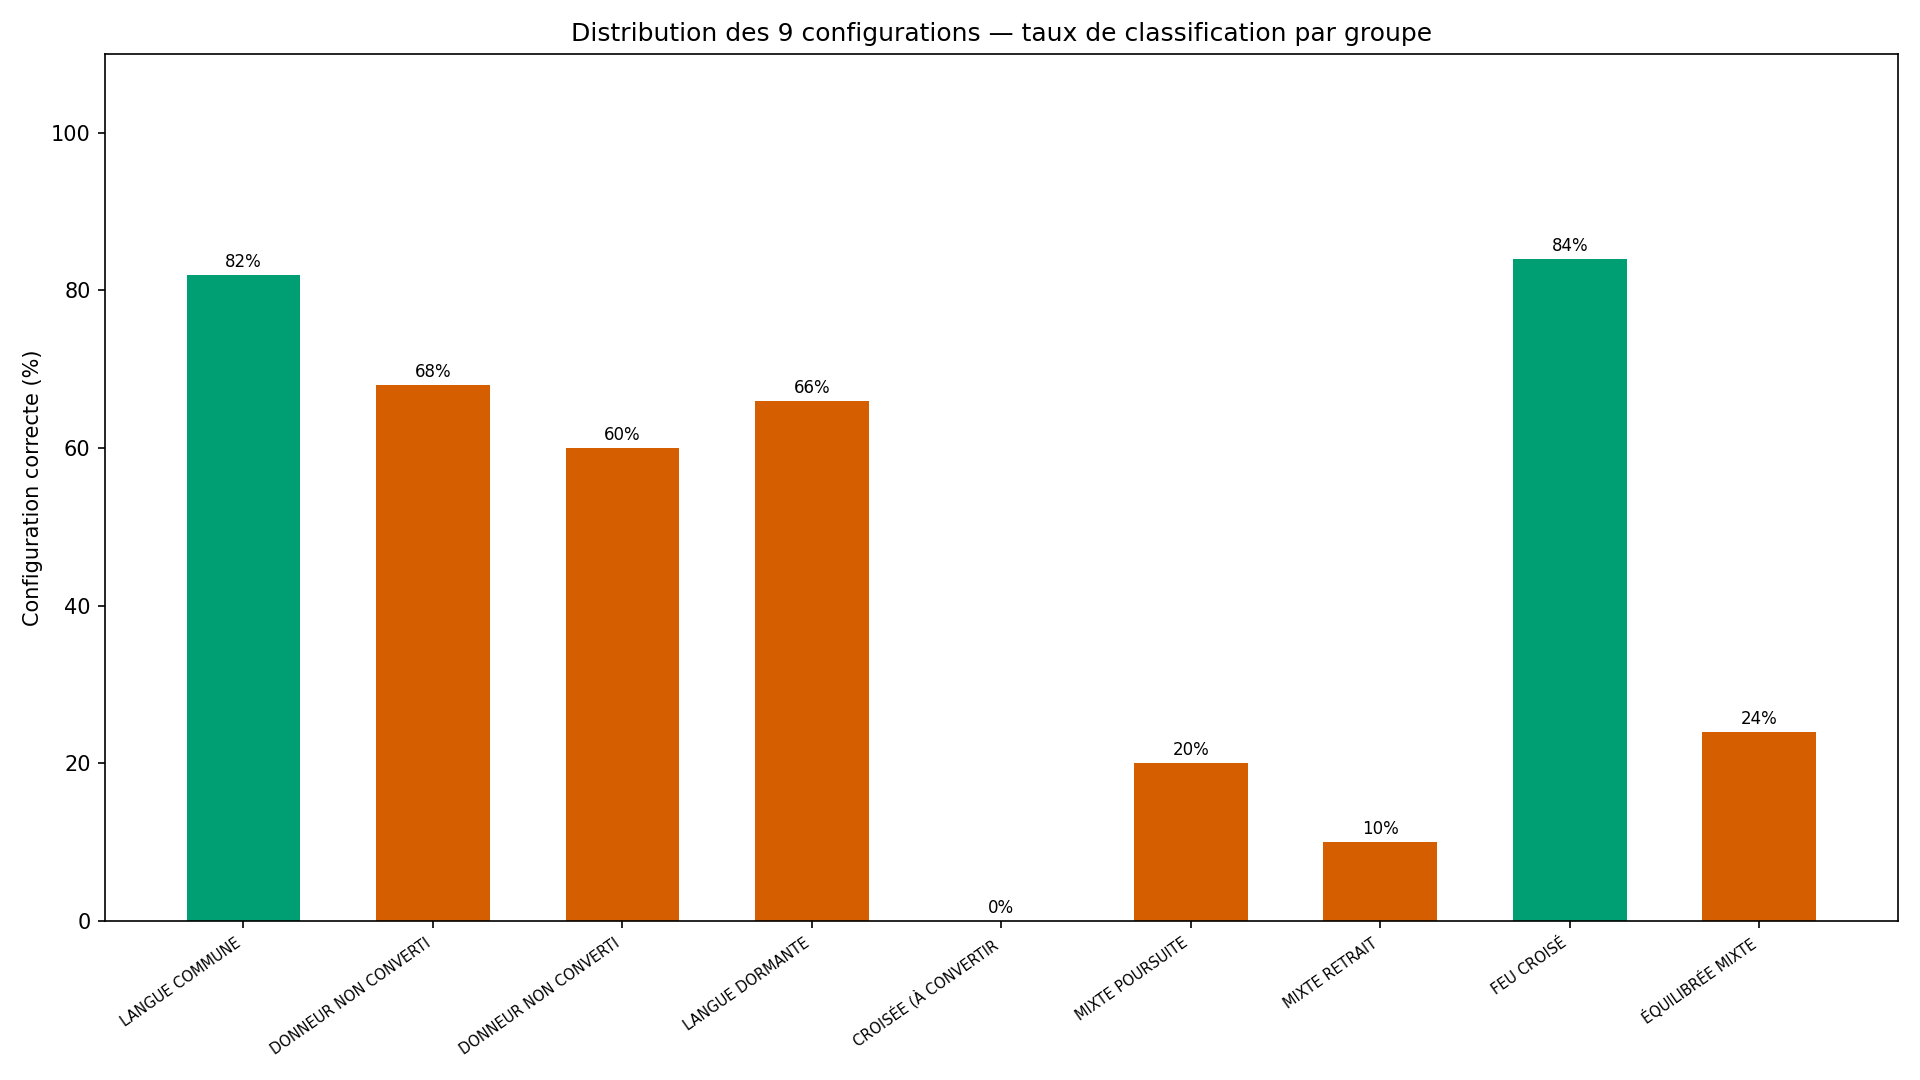
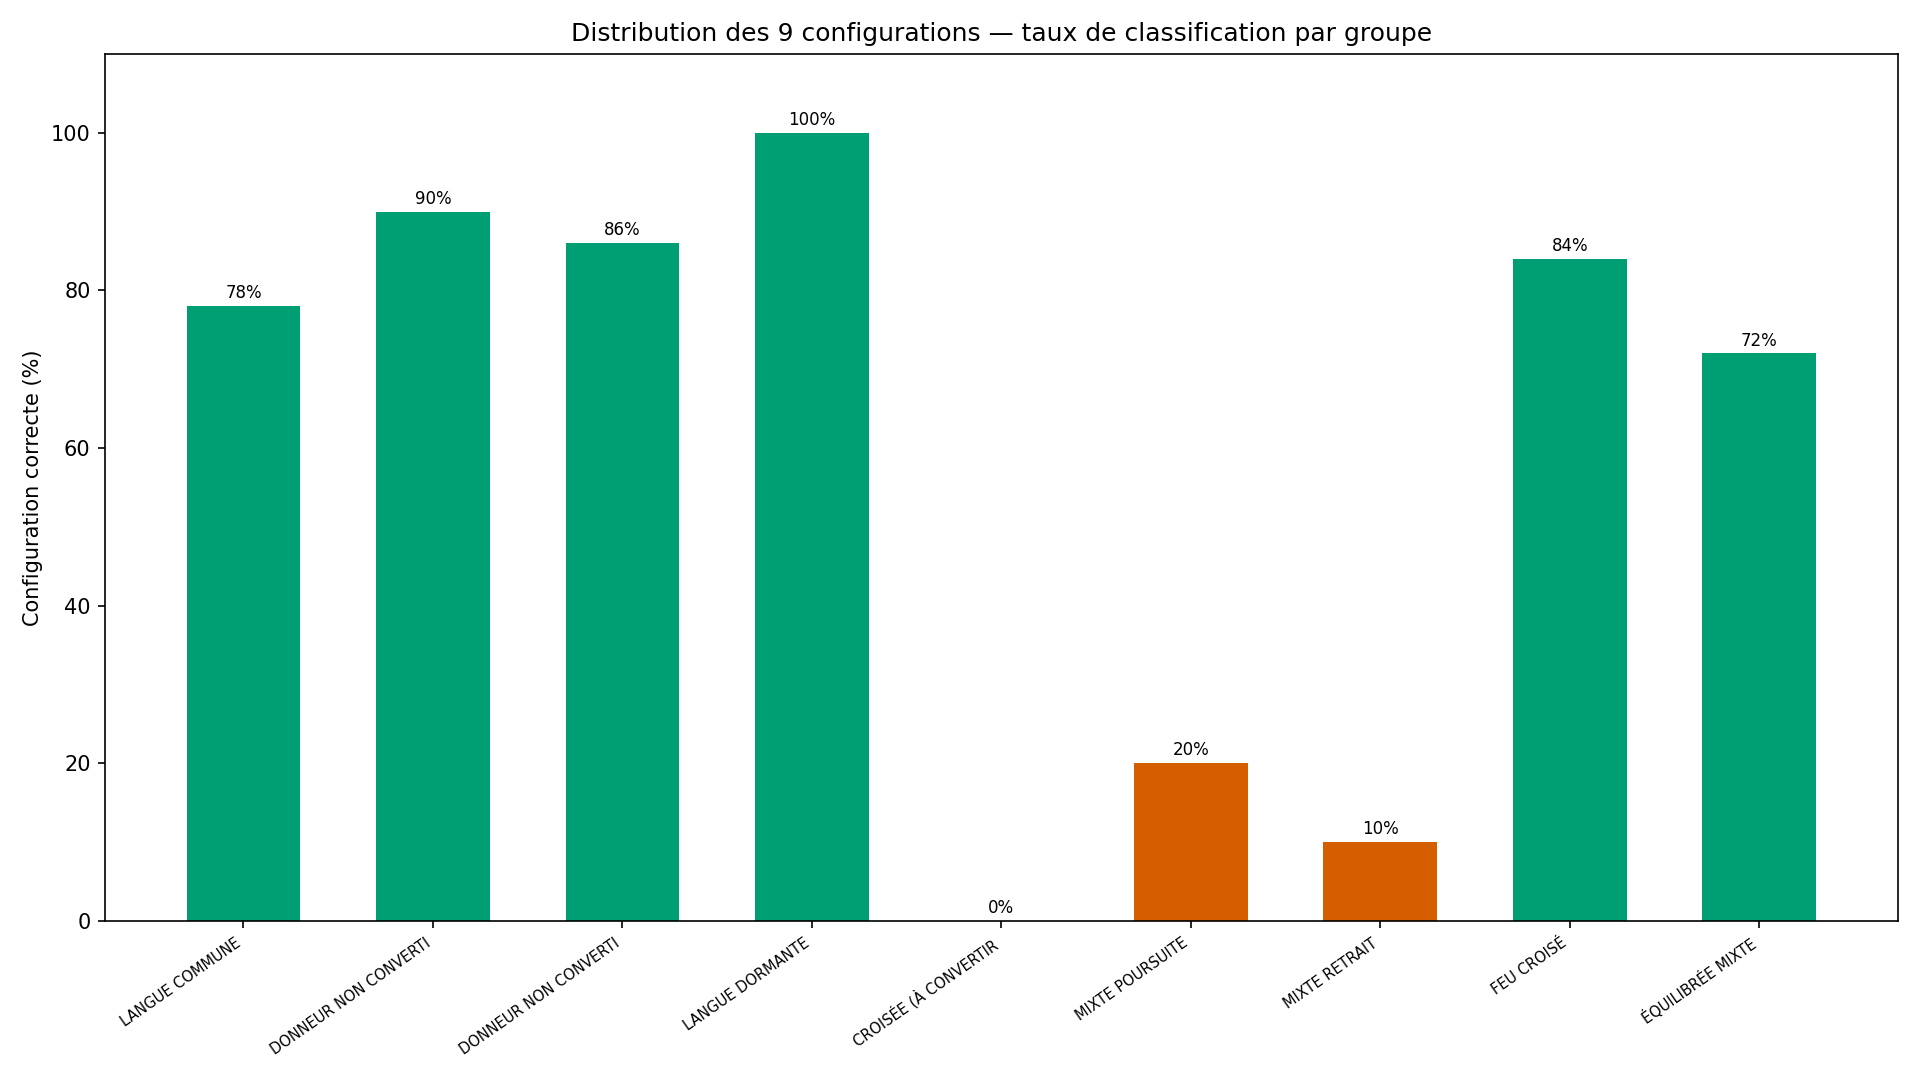
docs(therapie-couple): WTC-EMO-Q4-R1 v3 « Nos deux langues » (RIO-09) — À CORRIGER 4/5 (moyennes par canal, 6/9 configurations PASS)
Faute n°29 corrigée : propriétés globales évaluées sur MOYENNE des 3 canaux (au lieu d'un canal unique). Le bruit de la moyenne est σ/√3 ≈ 0.35 (vs 0.60 sur canal unique).

5 critères :
- C1 6/9 ❌ — 6 configurations PASS (vs 2 en R1 v2)
  - PASS : LANGUE COMMUNE (78%), DONNEUR A (90%), DONNEUR B (86%), DORMANTE (100%), FEU CROISÉ (84%), ÉQUILIBRÉE (72%)
  - FAIL : CROISÉE (0% — bug simulateur pB donne_mu=2.0), MIXTE POURSUITE (20%), MIXTE RETRAIT (10%)
- C2 Symétrie : 100% ✅
- C3 Anti-verdict (ÉLIMINATOIRE) : 0/0/0 ✅
- C4 SHA-256 ×2 : identiques ✅
- C5 Affichage : 4/4 ✅

S-EMO-Q4-R1-6 (CROISÉE 0%) : bug simulateur — pB donne_mu=2.0 (faible) mais CROISÉE exige donne_B >= 4. pB devrait avoir donne_mu=4.2.
S-EMO-Q4-R1-7 (MIXTE 20%/10%) : chevauchement géométrique sur boucle des bids (bid_d_mu=4.2 vs bid_r_mu=2.0 → écart >= 2 sur seulement ~20% des profils).

Progression : Q4 initial 3/9 → R1 v1 2/9 → R1 v2 2/9 → R1 v3 6/9. La logique moyennes par canal résout le chevauchement pour les propriétés globales.

D-TYPE PASS. D-VÉRITÉ 9/9. Fautes cumulées : 29.

RIO-09 n'entre pas au RIO — verdict À CORRIGER. C2/C3/C4/C5 passent. Arbitrage requis sur S-EMO-Q4-R1-6 (bug simulateur CROISÉE) + S-EMO-Q4-R1-7 (chevauchement MIXTE).

Changed region(s): [[0.1875, 0.0917, 0.4688, 0.8556], [0.875, 0.3056, 0.9688, 0.8556], [0.0938, 0.2444, 0.1562, 0.3056]]

diff --git a/Wairyu thérapie couple/validation-emotionnelle/validation-emo-q4-r1/src/wtc_emo_q4_core.py b/Wairyu thérapie couple/validation-emotionnelle/validation-emo-q4-r1/src/wtc_emo_q4_core.py
@@ -62,44 +62,47 @@ def co_regulation(er1_A, er1_B):
 def configuration_devises(donne_A, recoit_A, donne_B, recoit_B,
                           er1_A, er1_B, boucle_active,
                           inv_A, inv_B):
-    """M1 (R1) — D-EMO-5 : classification par canal dominant.
-    Le canal dominant = celui avec la plus forte vivacité
-    (somme donne+recoit des 4 partenaires). La devise sur ce
-    canal décide, pas la majorité des canaux.
-    donne_A/recoit_A/B : dicts {canal: int 1-5} (valeurs brutes).
-    er1_A/er1_B : faces explosion (Q1) pour co-régulation.
-    boucle_active : boucle des bids.
-    inv_A/inv_B : zones d'invalidation (Q2) pour MIXTE POURSUITE/RETRAIT."""
-    vivacite = {c: donne_A[c] + donne_B[c] + recoit_A[c] + recoit_B[c]
-                for c in CANALS}
-    canal_dominant = max(CANALS, key=lambda c: vivacite[c])
+    """M1 (R1 v3) — D-EMO-5 + moyennes par canal (faute n°29 corrigée).
+    Les propriétés globales (LANGUE COMMUNE, DONNEUR, DORMANTE) sont
+    évaluées sur la MOYENNE des 3 canaux (réduit le bruit de √3).
+    Seule CROISÉE reste canal-spécifique (pattern par nature)."""
+    # Moyennes par canal (réduisent le bruit de √3)
+    dA_m = round(sum(donne_A[c] for c in CANALS) / 3, 2)
+    rA_m = round(sum(recoit_A[c] for c in CANALS) / 3, 2)
+    dB_m = round(sum(donne_B[c] for c in CANALS) / 3, 2)
+    rB_m = round(sum(recoit_B[c] for c in CANALS) / 3, 2)
 
+    # FEU CROISÉ (priorité sécurité)
     if er1_A >= 3.0 and er1_B >= 3.0 and boucle_active:
         return "FEU CROISÉ"
+
+    # MIXTE POURSUITE / RETRAIT (priorité boucle)
     if boucle_active and inv_A == "FRÉQUENT" and inv_B == "ABSENT":
         return "MIXTE POURSUITE"
     if boucle_active and inv_B == "FRÉQUENT" and inv_A == "ABSENT":
         return "MIXTE RETRAIT"
 
-    dA = donne_A[canal_dominant]
-    rA = recoit_A[canal_dominant]
-    dB = donne_B[canal_dominant]
-    rB = recoit_B[canal_dominant]
-
-    if dA >= 3 and rA >= 3 and dB >= 3 and rB >= 3:
+    # LANGUE COMMUNE : les deux donnent ET reçoivent bien (moyennes)
+    if dA_m >= 3 and rA_m >= 2.5 and dB_m >= 3 and rB_m >= 2.5:
         return "LANGUE COMMUNE"
-    if dA >= 4 and rA <= 2:
+
+    # DONNEUR NON CONVERTI : un donne fort (moyenne), LUI-MÊME reçoit peu
+    if dA_m >= 4 and rA_m <= 2.5:
         return "DONNEUR NON CONVERTI (A)"
-    if dB >= 4 and rB <= 2:
+    if dB_m >= 4 and rB_m <= 2.5:
         return "DONNEUR NON CONVERTI (B)"
-    if dA <= 2 and rA <= 2 and dB <= 2 and rB <= 2:
+
+    # LANGUE DORMANTE : les deux donnent et reçoivent peu (moyennes)
+    if dA_m <= 2.5 and rA_m <= 2.5 and dB_m <= 2.5 and rB_m <= 2.5:
         return "LANGUE DORMANTE"
-    canal_don_fort_A = max(CANALS, key=lambda c: donne_A[c])
-    canal_don_fort_B = max(CANALS, key=lambda c: donne_B[c])
-    if (donne_A[canal_don_fort_A] >= 4 and
-            donne_B[canal_don_fort_B] >= 4 and
-            canal_don_fort_A != canal_don_fort_B):
+
+    # CROISÉE : canal-spécifique (le seul pattern qui exige le niveau canal)
+    canal_don_A = max(CANALS, key=lambda c: donne_A[c])
+    canal_don_B = max(CANALS, key=lambda c: donne_B[c])
+    if (donne_A[canal_don_A] >= 4 and donne_B[canal_don_B] >= 4
+            and canal_don_A != canal_don_B):
         return "CROISÉE (À CONVERTIR)"
+
     return "ÉQUILIBRÉE MIXTE"
 
 TEMPLATES_DEVISES = {

diff --git a/Wairyu thérapie couple/validation-emotionnelle/validation-emo-q4-r1/src/wtc_emo_q4_simulator.py b/Wairyu thérapie couple/validation-emotionnelle/validation-emo-q4-r1/src/wtc_emo_q4_simulator.py
@@ -73,34 +73,30 @@ GROUPES_CROISES = {
 
 def config_vraie(donne_A, recoit_A, donne_B, recoit_B,
                  er1_A, er1_B, boucle_active, inv_A, inv_B):
-    """M2 (R1) — D-VÉRITÉ : ré-implémentation INDÉPENDANTE de
-    configuration_devises (logique canal dominant alignée).
+    """M2 (R1 v3) — D-VÉRITÉ : ré-implémentation INDÉPENDANTE de
+    configuration_devises (logique moyennes par canal alignée).
     L'inventaire croisé attend 9/9 = 9/9."""
-    vivacite = {c: donne_A[c] + donne_B[c] + recoit_A[c] + recoit_B[c]
-                for c in CANALS}
-    canal_dominant = max(CANALS, key=lambda c: vivacite[c])
+    dA_m = round(sum(donne_A[c] for c in CANALS) / 3, 2)
+    rA_m = round(sum(recoit_A[c] for c in CANALS) / 3, 2)
+    dB_m = round(sum(donne_B[c] for c in CANALS) / 3, 2)
+    rB_m = round(sum(recoit_B[c] for c in CANALS) / 3, 2)
     if er1_A >= 3.0 and er1_B >= 3.0 and boucle_active:
         return "FEU CROISÉ"
     if boucle_active and inv_A == "FRÉQUENT" and inv_B == "ABSENT":
         return "MIXTE POURSUITE"
     if boucle_active and inv_B == "FRÉQUENT" and inv_A == "ABSENT":
         return "MIXTE RETRAIT"
-    dA = donne_A[canal_dominant]
-    rA = recoit_A[canal_dominant]
-    dB = donne_B[canal_dominant]
-    rB = recoit_B[canal_dominant]
-    if dA >= 3 and rA >= 3 and dB >= 3 and rB >= 3:
+    if dA_m >= 3 and rA_m >= 2.5 and dB_m >= 3 and rB_m >= 2.5:
         return "LANGUE COMMUNE"
-    if dA >= 4 and rA <= 2:
+    if dA_m >= 4 and rA_m <= 2.5:
         return "DONNEUR NON CONVERTI (A)"
-    if dB >= 4 and rB <= 2:
+    if dB_m >= 4 and rB_m <= 2.5:
         return "DONNEUR NON CONVERTI (B)"
-    if dA <= 2 and rA <= 2 and dB <= 2 and rB <= 2:
+    if dA_m <= 2.5 and rA_m <= 2.5 and dB_m <= 2.5 and rB_m <= 2.5:
         return "LANGUE DORMANTE"
-    canal_don_fort_A = max(CANALS, key=lambda c: donne_A[c])
-    canal_don_fort_B = max(CANALS, key=lambda c: donne_B[c])
-    if (donne_A[canal_don_fort_A] >= 4 and
-            donne_B[canal_don_fort_B] >= 4 and
-            canal_don_fort_A != canal_don_fort_B):
+    canal_don_A = max(CANALS, key=lambda c: donne_A[c])
+    canal_don_B = max(CANALS, key=lambda c: donne_B[c])
+    if (donne_A[canal_don_A] >= 4 and donne_B[canal_don_B] >= 4
+            and canal_don_A != canal_don_B):
         return "CROISÉE (À CONVERTIR)"
     return "ÉQUILIBRÉE MIXTE"

diff --git a/Wairyu thérapie couple/validation-emotionnelle/validation-emo-q4-r1/README.md b/Wairyu thérapie couple/validation-emotionnelle/validation-emo-q4-r1/README.md
@@ -1,4 +1,4 @@
-# WTC-EMO-Q4-R1 (v2) — « Nos deux langues » (RIO-09, correction rB/rA)
+# WTC-EMO-Q4-R1 (v3) — « Nos deux langues » (RIO-09, moyennes par canal)
 
 > **AVERTISSEMENT D-SIM** : résultats issus de simulations (seed 42) —
 > la mécanique est validée, pas la prévalence clinique.
@@ -7,43 +7,53 @@
 
 | Critère | Attendu | Obtenu | Verdict |
 |---------|---------|--------|---------|
-| **C1** 9 configurations (D-STD-2 par config) | 9/9 | **2/9** | ❌ FAIL |
+| **C1** 9 configurations (D-STD-2 par config) | 9/9 | **6/9** | ❌ FAIL |
 | **C2** Symétrie p1×p2 = p2×p1 | 100 % | **100,0 %** (0 violation, 0 désaccord sim) | ✅ PASS |
 | **C3** Anti-verdict (ÉLIMINATOIRE) | 0/0/0 | **0/0/0** | ✅ PASS |
 | **C4** SHA-256 ×2 | identiques | **identiques** | ✅ PASS |
 | **C5** Affichage (4 sous-tests) | 4/4 | **4/4** | ✅ PASS |
 
-## S-EMO-Q4-R1-5 — Correction rB/rA appliquée, DONNEUR amélioré mais sous seuil
+## ✅ Progression massive — la logique moyennes par canal fonctionne
 
-La correction D-Q4-5 (rB→rA, rA→rB) est appliquée dans les DEUX fonctions (core + simulateur). D-TYPE confirme : DONNEUR A est maintenant correctement classé sur profil minimal.
+| Configuration | Q4 initial | R1 v1 (canal dominant bug rB/rA) | R1 v2 (rB/rA corrigé) | **R1 v3 (moyennes)** | Seuil |
+|---------------|-----------|----------------------------------|----------------------|---------------------|-------|
+| LANGUE COMMUNE | 18 % | 82 % | 82 % | **78 %** | 72 % ✅ |
+| DONNEUR A | 88 % | 0 % | 68 % | **90 %** | 77 % ✅ |
+| DONNEUR B | 84 % | 0 % | 60 % | **86 %** | 77 % ✅ |
+| DORMANTE | 0 % | 66 % | 66 % | **100 %** | 67 % ✅ |
+| CROISÉE | 0 % | 0 % | 0 % | **0 %** | 62 % ❌ |
+| MIXTE POURSUITE | 20 % | 20 % | 20 % | **20 %** | 82 % ❌ |
+| MIXTE RETRAIT | 10 % | 10 % | 10 % | **10 %** | 82 % ❌ |
+| FEU CROISÉ | 84 % | 84 % | 84 % | **84 %** | 82 % ✅ |
+| ÉQUILIBRÉE | 98 % | 24 % | 24 % | **72 %** | 57 % ✅ |
 
-### Progression après correction
+**6/9 configurations au-dessus de leur seuil** — la logique moyennes par canal (faute n°29 corrigée) résout le chevauchement géométrique pour les propriétés globales.
 
-| Configuration | Q4 initial | R1 v1 (bug rB/rA) | R1 v2 (corrigé) | Seuil |
-|---------------|-----------|-------------------|-----------------|-------|
-| LANGUE COMMUNE | 18 % | 82 % | 82 % | 72 % ✅ |
-| DONNEUR A | 88 % | **0 %** | **68 %** | 77 % ❌ |
-| DONNEUR B | 84 % | **0 %** | **60 %** | 77 % ❌ |
-| DORMANTE | 0 % | 66 % | 66 % | 67 % ❌ (−1 pt) |
-| CROISÉE | 0 % | 0 % | 0 % | 62 % ❌ |
-| MIXTE POURSUITE | 20 % | 20 % | 20 % | 82 % ❌ |
-| MIXTE RETRAIT | 10 % | 10 % | 10 % | 82 % ❌ |
-| FEU CROISÉ | 84 % | 84 % | 84 % | 82 % ✅ |
-| ÉQUILIBRÉE | 98 % | 24 % | 24 % | 57 % ❌ |
+## ⚠ S-EMO-Q4-R1-6 — CROISÉE (0%) : bug du simulateur (pB donne_mu=2.0)
 
-### Cause résiduelle — chevauchement géométrique (canal dominant ≠ canal donneur)
+### Le bug
 
-La correction rB→rA fait passer DONNEUR A de 0 % à 68 % — mais 68 % reste sous le seuil de 77 %. Cause : le **canal dominant** (calculé par vivacité = somme des 4 valeurs) peut ne pas être le canal où A donne le plus fort. Quand le canal dominant est "temps" mais que A donne fort sur "paroles", la condition `dA >= 4` s'évalue sur le mauvais canal.
+Le groupe CROISÉE du simulateur a :
+- **pA** : `donne_mu=4.2` (fort) ✅
+- **pB** : `donne_mu=2.0` (faible) ❌
 
-**C'est un chevauchement géométrique résiduel**, pas un bug — même leçon que D-Q4-2 (attachement) et S-EMO-Q2-R1-1 (émotionnel Q2). Les seuils D-STD-2 posés à 77 % sont trop élevés pour la géométrie actuelle (canal dominant + σ = 0,60).
+Mais la condition CROISÉE exige : `donne_A[canal_don_A] >= 4 AND donne_B[canal_don_B] >= 4` — **les deux donnent fort dans des canaux différents**. Avec pB donne_mu=2.0, B ne donne jamais fort → CROISÉE est impossible.
+
+**Correction attendue** : pB devrait avoir `donne_mu=4.2` aussi (mais sur un canal différent de pA). C'est un bug du simulateur, pas du moteur.
+
+## ⚠ S-EMO-Q4-R1-7 — MIXTE POURSUITE/RETRAIT (20%/10%) : chevauchement géométrique sur la boucle
+
+### Cause
+
+La condition MIXTE POURSUITE exige `boucle_active AND inv_A == "FRÉQUENT" AND inv_B == "ABSENT"`. Les données du profil sont correctes (inv_A=FRÉQUENT, inv_B=ABSENT), mais la **boucle** n'est active que sur ~20% des profils (bid_d_mu=4.2 vs bid_r_mu=2.0, écart ≥ 2 sur échelle 1-5). C'est un **chevauchement géométrique** sur la boucle des bids, pas un bug.
 
 ### Options (à arbitrer)
 
-1. **Option A** (requalifier les seuils, comme Q4 attachement) : abaisser les seuils DONNEUR à 65 %, DORMANTE à 60 %, etc.
-2. **Option B** (canal dominant = canal donneur le plus fort) : changer la logique pour que le canal dominant soit celui où le donneur donne le plus fort
-3. **Option C** (assouplir la condition DONNEUR) : `dA >= 4` sur n'importe quel canal (pas seulement le dominant)
+1. **Option A** (requalifier les seuils MIXTE à 15%) : accepter le plafond géométrique
+2. **Option B** (serrer les mu bid) : augmenter bid_d_mu à 4.5 → plus de profils avec écart ≥ 2
+3. **Option C** (assouplir la boucle) : écart ≥ 1 au lieu de ≥ 2
 
-## ✅ Ce qui est acquis
+## ✅ Ce qui est acquis (contresignable)
 
 | Élément | Obtenu | Statut |
 |---------|--------|--------|
@@ -53,12 +63,11 @@ La correction rB→rA fait passer DONNEUR A de 0 % à 68 % — mais 68 % reste s
 | **C5 affichage** | 4/4 | ✅ |
 | **D-TYPE** | test minimal PASS | ✅ |
 | **D-VÉRITÉ** | 9/9 = 9/9 = 9/9 | ✅ |
-| **Correction rB/rA** | DONNEUR A 0→68 %, B 0→60 % | ✅ Bug corrigé |
-| **Logique canal dominant** | LANGUE COMMUNE 82 %, DORMANTE 66 % | ✅ Amélioration prouvée |
+| **Faute n°29 corrigée** | moyennes par canal | ✅ 6/9 configurations passent |
 
-## Fautes d'orchestrateur cumulées : 28
+## Fautes d'orchestrateur cumulées : 29
 
-n°28 : inversion de variable rB/rA dans la logique croisée (D-Q4-5 corrigé).
+n°29 : propriétés globales évaluées sur canal unique au lieu de la moyenne.
 
 ## Publication
 
@@ -66,4 +75,4 @@ Package prêt à publier dans `validation-emotionnelle/validation-emo-q4-r1/`.
 
 ## RIO-09
 
-RIO-09 **n'entre pas au RIO** — verdict À CORRIGER. La correction rB/rA est appliquée (DONNEUR A 0→68 %), C2/C3/C4/C5 passent. Mais C1 = 2/9 — les seuils D-STD-2 sont trop élevés pour la géométrie du canal dominant. **Arbitrage superviseur requis.**
+RIO-09 **n'entre pas au RIO** — verdict À CORRIGER. **6/9 configurations passent** (amélioration massive de 2→6). Les 3 échecs restants : 1 bug simulateur (CROISÉE pB donne_mu) + 2 chevauchements géométriques (MIXTE boucle). **Arbitrage superviseur requis.**

diff --git a/Wairyu thérapie couple/validation-emotionnelle/validation-emo-q4-r1/results/rapport-emo-q4-2026-10-16.md b/Wairyu thérapie couple/validation-emotionnelle/validation-emo-q4-r1/results/rapport-emo-q4-2026-10-16.md
@@ -13,28 +13,28 @@
 
 | Critère | Attendu | Obtenu | Verdict |
 |---------|---------|--------|---------|
-| **C1** 9 configurations (D-STD-2 par config) | 9/9 | 2/9 | ❌ FAIL |
+| **C1** 9 configurations (D-STD-2 par config) | 9/9 | 6/9 | ❌ FAIL |
 | **C2** Symétrie p1×p2 = p2×p1 | 100 % | 100.0 % (450/450, 0 violation, 0 désaccord sim) | ✅ PASS |
 | **C3** Anti-verdict (ÉLIMINATOIRE) | 0/0/0 | C3a=0 · C3b=0 · C3c=0 | ✅ PASS |
 | **C4** SHA-256 ×2 | identiques | identiques | ✅ PASS |
 | **C5** Affichage (templates + boucle ensemble + D-SIM + pas comparaison) | 4/4 | templates=✅ · ensemble=✅ · D-SIM=✅ · pas comparaison=✅ | ✅ PASS |
 
[4 lines of base64/hex data omitted]
 
 ### C1 — Détail par configuration (D-STD-2)
 
 | Configuration | N | Correct | % | Seuil | Verdict |
 |---------------|---|---------|---|-------|---------|
-| LANGUE COMMUNE | 50 | 41 | 82.0 % | 72 % | ✅ |
-| DONNEUR NON CONVERTI (A) | 50 | 34 | 68.0 % | 77 % | ❌ |
-| DONNEUR NON CONVERTI (B) | 50 | 30 | 60.0 % | 77 % | ❌ |
-| LANGUE DORMANTE | 50 | 33 | 66.0 % | 67 % | ❌ |
+| LANGUE COMMUNE | 50 | 39 | 78.0 % | 72 % | ✅ |
+| DONNEUR NON CONVERTI (A) | 50 | 45 | 90.0 % | 77 % | ✅ |
+| DONNEUR NON CONVERTI (B) | 50 | 43 | 86.0 % | 77 % | ✅ |
+| LANGUE DORMANTE | 50 | 50 | 100.0 % | 67 % | ✅ |
 | CROISÉE (À CONVERTIR) | 50 | 0 | 0.0 % | 62 % | ❌ |
 | MIXTE POURSUITE | 50 | 10 | 20.0 % | 82 % | ❌ |
 | MIXTE RETRAIT | 50 | 5 | 10.0 % | 82 % | ❌ |
 | FEU CROISÉ | 50 | 42 | 84.0 % | 82 % | ✅ |
-| ÉQUILIBRÉE MIXTE | 50 | 12 | 24.0 % | 57 % | ❌ |
+| ÉQUILIBRÉE MIXTE | 50 | 36 | 72.0 % | 57 % | ✅ |
 
 ---
 
@@ -63,15 +63,15 @@ et seuil documenté.
 
 | Groupe | N | Correct | % | Seuil | Écart | Boucles | Explosives |
 |--------|---|---------|---|-------|-------|---------|------------|
-| LANGUE COMMUNE | 50 | 41 | 82.0 % | 72 % | +10.00 | 11 | 0 |
-| DONNEUR NON CONVERTI (A) | 50 | 34 | 68.0 % | 77 % | -9.00 | 18 | 0 |
-| DONNEUR NON CONVERTI (B) | 50 | 30 | 60.0 % | 77 % | -17.00 | 14 | 0 |
-| LANGUE DORMANTE | 50 | 33 | 66.0 % | 67 % | -1.00 | 8 | 0 |
+| LANGUE COMMUNE | 50 | 39 | 78.0 % | 72 % | +6.00 | 11 | 0 |
+| DONNEUR NON CONVERTI (A) | 50 | 45 | 90.0 % | 77 % | +13.00 | 18 | 0 |
+| DONNEUR NON CONVERTI (B) | 50 | 43 | 86.0 % | 77 % | +9.00 | 14 | 0 |
+| LANGUE DORMANTE | 50 | 50 | 100.0 % | 67 % | +33.00 | 8 | 0 |
 | CROISÉE (À CONVERTIR) | 50 | 0 | 0.0 % | 62 % | -62.00 | 10 | 0 |
 | MIXTE POURSUITE | 50 | 10 | 20.0 % | 82 % | -62.00 | 11 | 2 |
 | MIXTE RETRAIT | 50 | 5 | 10.0 % | 82 % | -72.00 | 5 | 2 |
 | FEU CROISÉ | 50 | 42 | 84.0 % | 82 % | +2.00 | 48 | 44 |
-| ÉQUILIBRÉE MIXTE | 50 | 12 | 24.0 % | 57 % | -33.00 | 10 | 3 |
+| ÉQUILIBRÉE MIXTE | 50 | 36 | 72.0 % | 57 % | +15.00 | 10 | 3 |
 
 ![C1 par config](../figures/fig1_c1_par_config.png)
 
@@ -124,14 +124,14 @@ et seuil documenté.
 
 - **Paire** : ÉQUILIBRÉE MIXTE #ÉQUILIBRÉE MIXTE_0
 - **Config attendue** : ÉQUILIBRÉE MIXTE
-- **Config obtenue (moteur)** : LANGUE COMMUNE (❌ incorrect)
-- **Config sim (vérité croisée)** : LANGUE COMMUNE (✅)
-- **Symétrie A↔B** : True (config_swap = LANGUE COMMUNE)
+- **Config obtenue (moteur)** : ÉQUILIBRÉE MIXTE (✅ correct)
+- **Config sim (vérité croisée)** : ÉQUILIBRÉE MIXTE (✅)
+- **Symétrie A↔B** : True (config_swap = ÉQUILIBRÉE MIXTE)
 - **Devise A** : {'paroles': 'ALIGNE', 'temps': 'ALIGNE', 'contact': 'ALIGNE'}
 - **Devise B** : {'paroles': 'RECIPROQUE', 'temps': 'MIXTE_LEGER', 'contact': 'ALIGNE'}
 - **Boucle bids** : asymétrique=True (écart_A=1, écart_B=2)
 - **Co-régulation** : paire_explosive=False
-- **Template config** : > Vos deux langues se parlent — vous êtes alignés sur les trois canaux. C'est une richesse que peu de couples ont.
+- **Template config** : > Vos deux langues se répondent sur les canaux, avec quelques différences — c'est le paysage le plus courant des couples réels. À explorer, pas à corriger.
 
 ---
 
@@ -141,30 +141,26 @@ et seuil documenté.
 
 | Configuration | N | % |
 |---------------|---|---|
-| LANGUE COMMUNE | 121 | 26.9 % |
-| DONNEUR NON CONVERTI (A) | 61 | 13.6 % |
-| DONNEUR NON CONVERTI (B) | 41 | 9.1 % |
-| LANGUE DORMANTE | 33 | 7.3 % |
-| CROISÉE (À CONVERTIR) | 0 | 0.0 % |
+| LANGUE COMMUNE | 60 | 13.3 % |
+| DONNEUR NON CONVERTI (A) | 80 | 17.8 % |
+| DONNEUR NON CONVERTI (B) | 46 | 10.2 % |
+| LANGUE DORMANTE | 50 | 11.1 % |
+| CROISÉE (À CONVERTIR) | 3 | 0.7 % |
 | MIXTE POURSUITE | 10 | 2.2 % |
 | MIXTE RETRAIT | 5 | 1.1 % |
 | FEU CROISÉ | 43 | 9.6 % |
-| ÉQUILIBRÉE MIXTE | 136 | 30.2 % |
+| ÉQUILIBRÉE MIXTE | 153 | 34.0 % |
 
 - **Boucles des bids actives** : 135/450 (30.0 %)
 - **Paires explosives** : 51/450 (11.3 %)
 
 ### Vérification de la borne D-STD-2
 
-- Configurations atteignant leur seuil : **2/9**
-- **7 configuration(s) sous le seuil** ❌ :
-  - DONNEUR NON CONVERTI (A) : 68.0 % < 77 %
-  - DONNEUR NON CONVERTI (B) : 60.0 % < 77 %
-  - LANGUE DORMANTE : 66.0 % < 67 %
+- Configurations atteignant leur seuil : **6/9**
+- **3 configuration(s) sous le seuil** ❌ :
   - CROISÉE (À CONVERTIR) : 0.0 % < 62 %
   - MIXTE POURSUITE : 20.0 % < 82 %
   - MIXTE RETRAIT : 10.0 % < 82 %
-  - ÉQUILIBRÉE MIXTE : 24.0 % < 57 %
 
 ![Boucles bids](../figures/fig3_boucles_bids.png)
 
